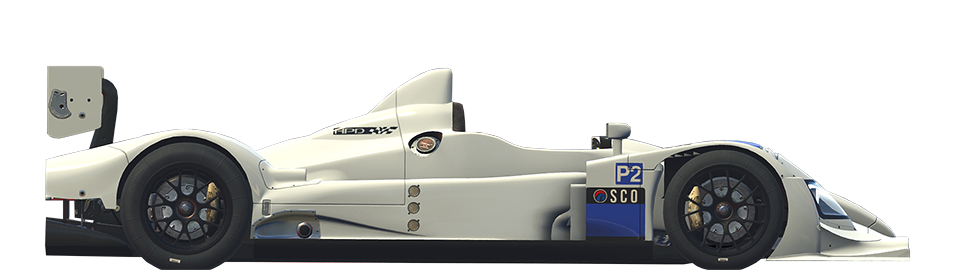
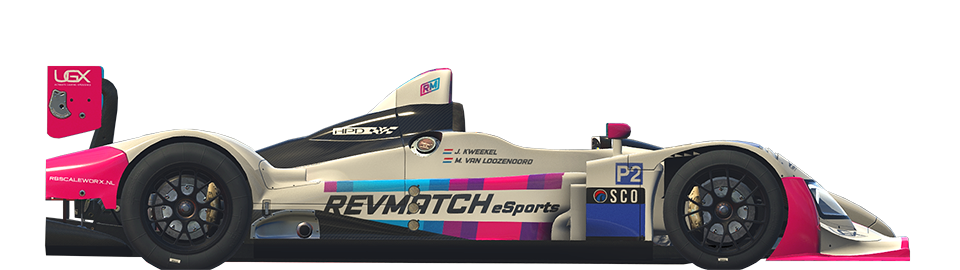
Spotterguide minor changes + missing paints

Changed region(s): [[0.2188, 0.237, 0.9688, 0.9778], [0.0312, 0.4741, 0.2188, 0.7704], [0.0312, 0.237, 0.125, 0.5037]]

diff --git a/public/css/spotterguide.css b/public/css/spotterguide.css
@@ -10551,6 +10551,18 @@ html {
   font-size: 18px;
 }
 
+@media (max-width: 767.98px) {
+  html {
+    font-size: 16px;
+  }
+}
+
+@media (max-width: 575.98px) {
+  html {
+    font-size: 14px;
+  }
+}
+
 h1 {
   background-image: url("img/sco.svg");
   background-position: 100% 50%;
@@ -10739,7 +10751,7 @@ h1::after {
 }
 
 .spotterguide-tile .info-box {
-  height: calc(6 * 1.2rem + 5px);
+  height: calc(6 * 1.4rem + 5px);
   width: 100%;
 }
 
@@ -10749,16 +10761,15 @@ h1::after {
   font-size: 5rem;
   line-height: 5rem;
   border-right: 2px solid #212529;
-  letter-spacing: -.25rem;
 }
 
 .spotterguide-tile .info-box .team-number span {
-  margin-top: -1rem;
+  margin-top: calc(((65/90 * 5rem) - 5rem) / 2);
 }
 
 .spotterguide-tile .info-box .team-drivers {
-  font-size: 0.9rem;
-  line-height: 1.2rem;
+  font-size: 1.0rem;
+  line-height: 1.4rem;
   padding: 0 0.5rem;
   width: calc(100% - 9rem);
   overflow-x: hidden;

diff --git a/resources/assets/sass/spotterguide.scss b/resources/assets/sass/spotterguide.scss
@@ -6,6 +6,13 @@
 html{
   font-family: 'Ubuntu', sans-serif !important;
   font-size: 18px;
+
+  @include media-breakpoint-down(sm){
+    font-size: 16px;
+  }
+  @include media-breakpoint-down(xs){
+    font-size: 14px;
+  }
 }
 
 h1{
@@ -89,7 +96,7 @@ h1{
     }
   }
   .info-box{
-    height: calc(6 * 1.2rem + 5px);
+    height: calc(6 * 1.4rem + 5px);
     width: 100%;
     //margin-top: -1px;
 
@@ -100,15 +107,14 @@ h1{
       font-size: 5rem;
       line-height: 5rem;
       border-right: 2px solid $gray-900;
-      letter-spacing: -.25rem;
 
       span{
-        margin-top: -1rem;
+        margin-top: calc(((65/90 * 5rem) - 5rem) / 2);
       }
     }
     .team-drivers{
-      font-size: 0.9rem;
-      line-height: 1.2rem;
+      font-size: 1.0rem;
+      line-height: 1.4rem;
       padding: 0 0.5rem;
       width: calc(100% - 9rem);
       overflow-x: hidden;

diff --git a/resources/views/spotterguide/show.blade.php b/resources/views/spotterguide/show.blade.php
@@ -23,7 +23,7 @@
       <h1 class="class-{{$class.config('constants.current_season')}} rounded-pill">{{$class}}</h1>
       <div class="row d-flex flex-row flex-wrap align-items-stretch spotterguide-tile">
       @foreach($teams as $team)
-        <div class="col-12 col-md-6 col-lg-4 p-1">
+        <div class="col-12 col-md-6 col-xl-4 p-1">
           <div class="card h-100">
             <img src="{{asset('assets/spotterguide/'.$team['ir_teamid'].'.png')}}" class="card-img-top car-image car-man-{{$team->car}}">
             <div class="p-1 px-2 car-info d-flex flex-wrap justify-content-between">
